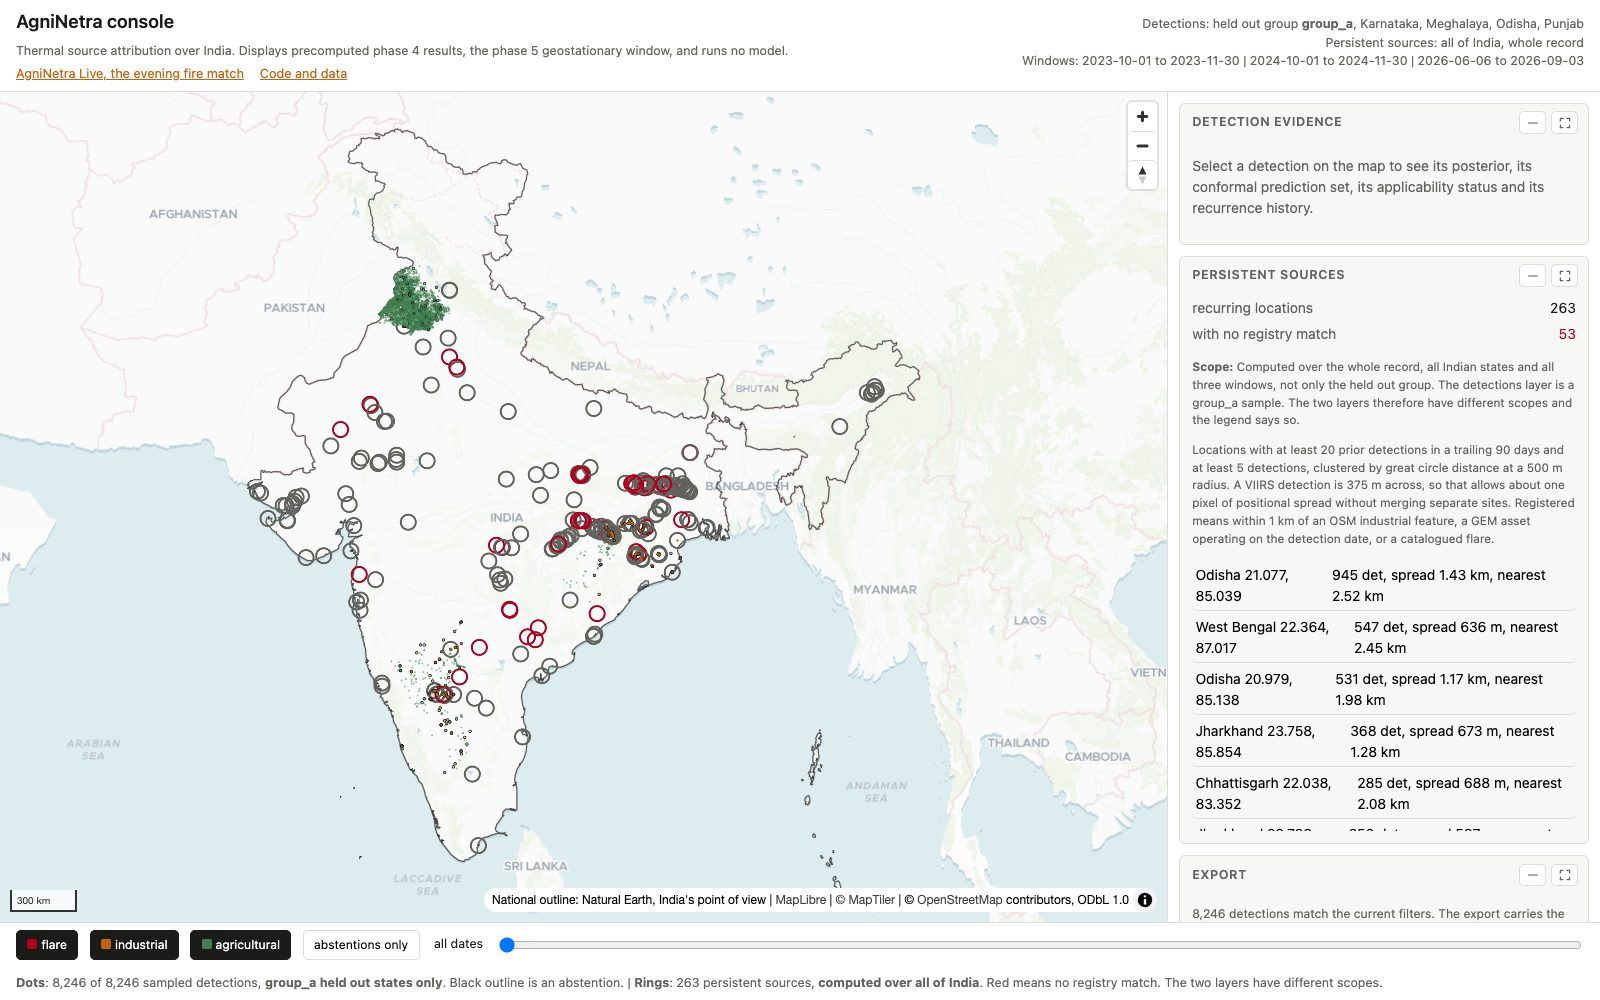
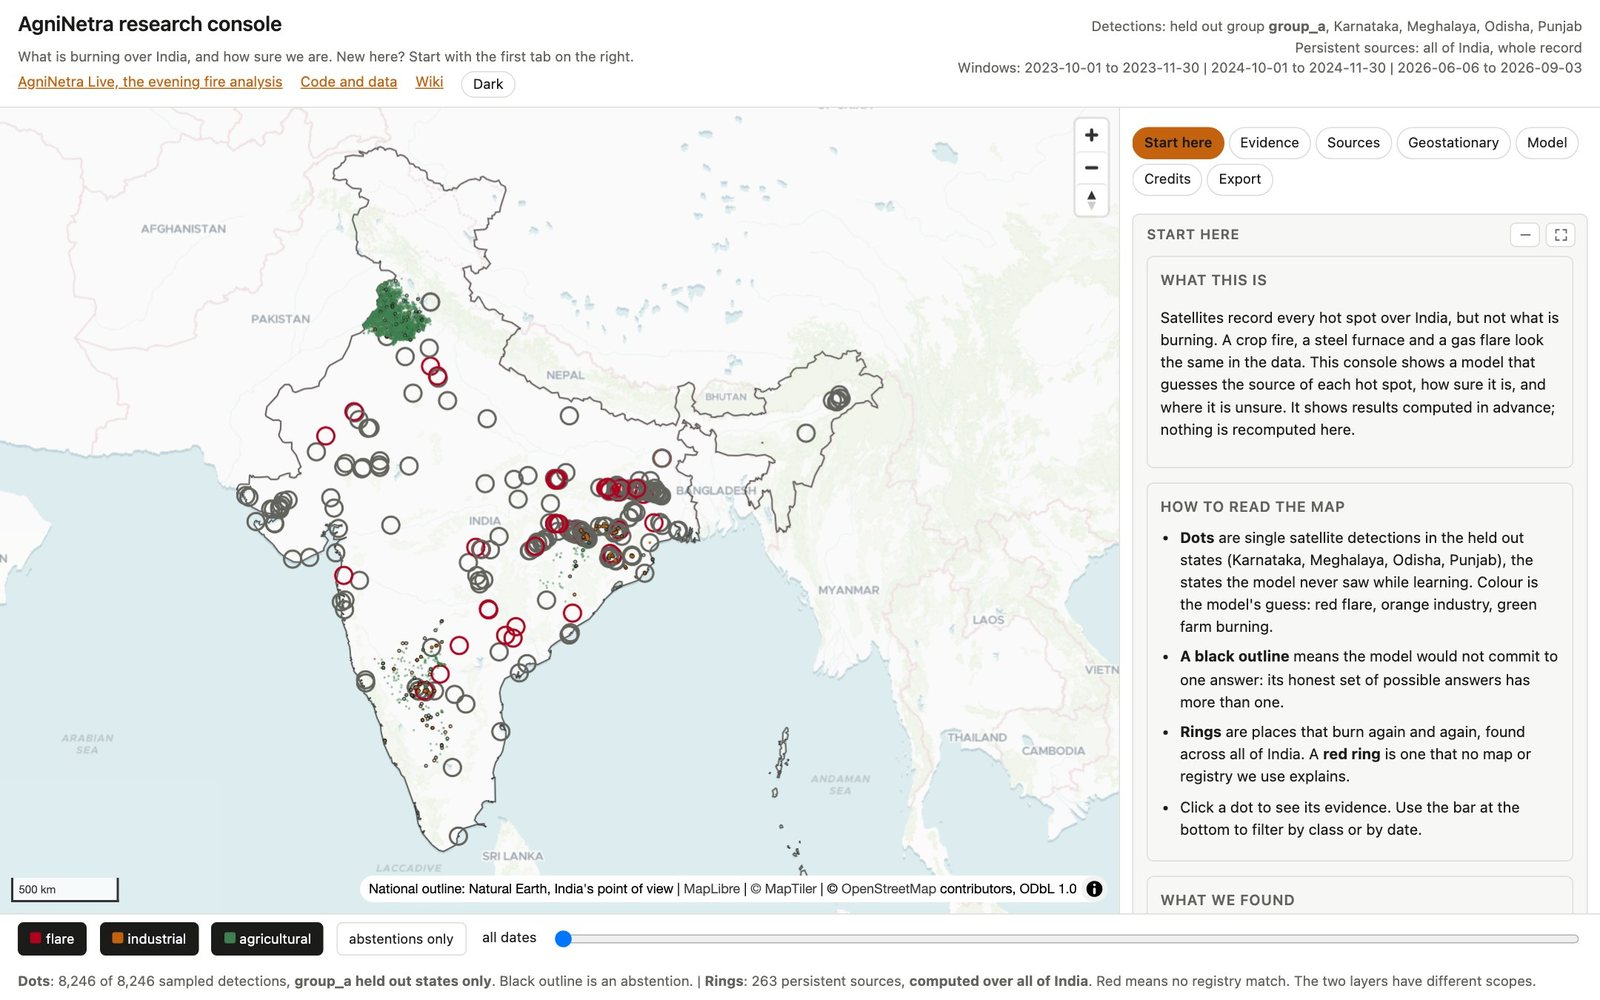
docs: add the roadmap, the console tabs and the Live settings to the READMEs

diff --git a/README.md b/README.md
@@ -44,7 +44,7 @@ public app is free to grow on top of it.
 
 ## The research console
 
-<p align="center"><img src=".github/assets/console.jpg" alt="The AgniNetra research console: detections over India coloured by class, persistent sources circled, with the evidence panel on the right." width="100%"></p>
+<p align="center"><img src=".github/assets/console.jpg" alt="The AgniNetra research console: detections over India coloured by class, persistent sources circled, with the Start here guide in the side column." width="100%"></p>
 
 Every detection on the map carries its class probabilities, a conformal prediction set,
 whether it lies inside the model's applicability domain, and its recurrence history.
@@ -52,9 +52,16 @@ Persistent sources, places that burn again and again, are ringed, with their dis
 the nearest registered asset. The console runs no model: everything it shows is
 precomputed, so a number on screen and a number in the report have one source.
 
+The side column is a set of tabs: **Start here**, a plain language guide to the map, the
+findings and the words used; **Evidence** for the detection you click; **Sources**, the
+persistent sources with no registry match; **Geostationary**, what INSAT-3DS sees in the
+hours the polar satellites miss; **Model**, the scores, the calibrated uncertainty and
+everything not measured; **Credits**; and **Export** to CSV. Any tab can be maximised.
+Light and dark themes are kept in the address, so a shared link opens the same way.
+
 ## AgniNetra Live
 
-<p align="center"><img src=".github/assets/live.jpg" alt="AgniNetra Live on a desktop: which satellites saw the evening's fires, the fire map, and the Heatle game." width="100%"></p>
+<p align="center"><img src=".github/assets/live.jpg" alt="AgniNetra Live on a desktop: which satellites saw the evening's fires, the fire map, and Heatle with the Unlock Swipe card." width="100%"></p>
 
 <img src=".github/assets/netu.svg" alt="Netu" width="44" align="left">
 
@@ -63,12 +70,12 @@ but pass over at fixed times, the last one in the early afternoon; India's own
 geostationary INSAT-3DS sees only larger fires but looks every 30 minutes, through the
 evening, when most stubble is burned.
 
-- **Who saw today's fires**, refreshed every thirty minutes from 16:37 IST: one bar splitting the day's fire cells into seen by polar satellites only, by both, and by INSAT-3DS only, with the evening told half hour by half hour in plain words.
+- **Who saw the evening's fires**, refreshed every thirty minutes from 16:37 IST: one bar splitting the day's fire cells into seen by polar satellites only, by both, and by INSAT-3DS only, with the evening told half hour by half hour in plain words. A day switcher opens today and the three evenings before, and every card says which evening it is about.
 - **The fire map**, with regions, daytime and evening filters and a Fire Clock that replays the day, all inside the map.
 - **Your air**: pick one of 22 cities, or share your location, and the map closes in on it with tomorrow's PM2.5 forecast, the fires around it and where its air came from.
-- **Heatle**, one verified mystery site a day with a lesson in every clue, and practice rounds.
-- **Swipe**, community labelling of the persistent hot spots no map explains. Players sign in with Google and qualify on 50 registry checked Heatle rounds first; each spot comes with its coordinates, dates seen, season and nearest mapped features.
-- **Netu as a pet** that levels up as you play, **Smog Wrapped** in December, light and dark themes, and optional sync across devices.
+- **Heatle**, one verified mystery site a day with a lesson in every clue, and practice rounds. Below it, **Unlock Swipe** deals the qualifying rounds.
+- **Swipe**, community labelling of the persistent hot spots no map explains. Players sign in with Google and qualify on 10 registry checked Heatle rounds first; each spot comes with its coordinates, dates seen, season and nearest mapped features.
+- **Netu as a pet** that levels up as you play: hover over it in the header to see its level and outfit. **Smog Wrapped** in December, light and dark themes, and **Your data**: sync across devices with Google, or carry a backup file without an account.
 
 Its rules are built in: farm fires only ever appear per district or 11 km cell, never per
 field; points come from seeing fires, never from burning; industry is "likely industrial
@@ -140,8 +147,27 @@ AgniNetra Live, on the `agninetra` branch:
 
 The live feed needs a NASA FIRMS map key and a MOSDAC account in `.env`; copy
 `.env.example`. Without them, ingestion reports itself as blocked rather than inventing
-data. `requirements.lock.txt` freezes the exact environment the published results came
+data. Community labelling also needs `GOOGLE_CLIENT_ID`, a Google OAuth web client
+whose authorised redirect is the site's root, and `QUALIFY_SECRET`, at least 32 random
+characters; without them Live runs with labelling switched off. The server refuses to
+switch labelling on if the qualifying answers do not verify under the secret. `requirements.lock.txt` freezes the exact environment the published results came
 from.
+
+## Roadmap
+
+Every open item is an issue on the [project board](https://github.com/users/ChinmayaThakral/projects/1),
+and the [wiki roadmap](https://github.com/ChinmayaThakral/AgniNetra/wiki/Roadmap) lists them
+in order. The research items follow the future work of the project report:
+
+1. A geostationary fire detector that also works at night, the one measurement that could
+   separate flares from industry by time of day ([#31](https://github.com/ChinmayaThakral/AgniNetra/issues/31)).
+2. An independent validation of the INSAT-3DS detector ([#4](https://github.com/ChinmayaThakral/AgniNetra/issues/4)).
+3. Whole season geostationary windows ([#34](https://github.com/ChinmayaThakral/AgniNetra/issues/34)) and the 2020 baseline ([#2](https://github.com/ChinmayaThakral/AgniNetra/issues/2)).
+4. Scoring baselines B3 ([#1](https://github.com/ChinmayaThakral/AgniNetra/issues/1)) and B4 ([#32](https://github.com/ChinmayaThakral/AgniNetra/issues/32)).
+5. A small field verified set ([#33](https://github.com/ChinmayaThakral/AgniNetra/issues/33)).
+6. A model of where the reference maps are complete ([#3](https://github.com/ChinmayaThakral/AgniNetra/issues/3)).
+7. A preregistered test of the evening fire count for Delhi air quality forecasts ([#35](https://github.com/ChinmayaThakral/AgniNetra/issues/35)).
+8. Checked community labels as their own training layer ([#36](https://github.com/ChinmayaThakral/AgniNetra/issues/36)).
 
 ## Repository layout
 

diff --git a/apps/console/README.md b/apps/console/README.md
@@ -21,15 +21,24 @@ reference layers:
 
 ## What it shows
 
-A MapLibre map of the sampled detections, coloured by predicted class. A timeline
-scrubber over the acquisition dates. A per detection evidence panel carrying the
-class posterior, the conformal prediction set, the applicability domain status,
-the recurrence history at that location and the nearest reference asset. A
-persistent source panel listing recurring locations with no registry match. CSV
-export of whatever the current filters select.
+One screen: a MapLibre map of the sampled detections, coloured by predicted class,
+with class and abstention filters and a timeline scrubber over the acquisition
+dates along the bottom, and a side column of tabs.
 
-Below the map, the model card: per class F1 by held out group, conformal coverage
-against the nominal level, B2, and an explicit list of what is not measured.
+- **Start here**: what the console is, how to read the map, the main findings read
+  from the exported files, and a glossary.
+- **Evidence**: the detection clicked on the map, with its class posterior, conformal
+  prediction set, applicability domain status, recurrence history and nearest
+  reference asset.
+- **Sources**: the recurring locations with no registry match; a row flies the map to it.
+- **Geostationary**: the two INSAT-3DS windows, their hourly profiles, states and
+  corroboration against the polar record.
+- **Model**: per class F1 by held out group, conformal coverage against the nominal
+  level, B2, provenance, and an explicit list of what is not measured.
+- **Credits** and **Export**, a CSV of whatever the current filters select.
+
+Any tab can be maximised over the workspace. The light or dark theme is kept in the
+address as `?theme=`, not in storage, so a shared link opens the same way.
 
 ## Rules this console follows
 
